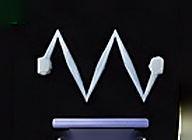
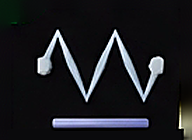
builder: type pills at TARGET's capsule tone and word ink; Tongue Snap cut's foot cleaned
Capsule ends within 2 levels of TARGET's, pill word ink 48 vs 50 px; the
pale specks at the Tongue Snap pills' tips (TARGET's own pill left in the
cut) are gone. Grader FAIL x2; item left open with measurements.

Claude-Session: https://claude.ai/code/session_01FhpwQSQiick6h2SicEb53c

Changed region(s): [[0.2812, 0.8857, 0.7812, 1.0], [0.9062, 0.9143, 1.0, 1.0]]

diff --git a/tools/cardart_cut.py b/tools/cardart_cut.py
@@ -33,7 +33,8 @@ USM = {"flick": 40}   # run 6 (2026-10-10): at 130 the halo lit the blade's grey
 EDGE_FIX = {"leap", "tongue_snap", "flick"}                # cards whose cut needs the edge columns replaced (scramble's trim is tilted across them)
 KEEP_TOP = {"flick"}         # the sword's tip reaches the name band: inpainting the top rows smeared it
 PILL_ROW = {"flick": 0.86}   # the sword's guard and grip sit low, over the 0.7 line: key only the pill's own rows
-FOOT_CLEAR = {"flick": 6}    # TARGET px: the top of TARGET's pill cut off at the window's foot; the key missed it and a pale sliver showed past the card's own pill (run 6, 2026-10-10)
+FOOT_CLEAR = {"flick": 6, "tongue_snap": 6}
+FOOT_BLACK = {"tongue_snap": 8.5}   # TARGET px: under the zigzag's bar TARGET's window is plain black; the pill's inpaint left a blue-grey blob there (run 6)    # TARGET px: the top of TARGET's pill cut off at the window's foot; the key missed it and a pale sliver showed past the card's own pill (run 6, 2026-10-10)
 WIN_W = 122.0                      # TARGET px: the window inside the gold line (run 14: the frame now trims a 2 px bleed)
 ASPECT = (0.889 * 690) / (0.456 * 984)   # card_view.A1_ART (run 16: 0.039 .. 0.928)
 SCALE = 1.4                        # output px per TARGET px: ~2x the window on screen, so the card's mip 1 lands 1:1 and the art stays as crisp as TARGET's (run 14)
@@ -105,6 +106,10 @@ def cut(name: str, cx: float, cy: float, tilt: float, win_w: float = 0.0) -> Non
     bgr = np.ascontiguousarray(crop[..., ::-1])
     fill = cv2.inpaint(bgr, hole.astype(np.uint8) * 255, 5, cv2.INPAINT_TELEA)[..., ::-1]
     crop[hole] = fill[hole]
+    if name in FOOT_BLACK:
+        n = int(round(FOOT_BLACK[name] * crop.shape[0] / h))
+        ground = np.median(crop[int(crop.shape[0] * 0.6):, :6].reshape(-1, 3), axis=0)
+        crop[-n:, 6:-6] = ground.astype(crop.dtype)
     out = Image.fromarray(crop).resize((int(round(w * SCALE)), int(round(h * SCALE))), Image.LANCZOS)
     # The card draws this through a mip and a bilinear tap; a light unsharp
     # mask gives back the edge contrast TARGET's window has (run 14).

diff --git a/design/plan/BUILDER-QUEUE.md b/design/plan/BUILDER-QUEUE.md
@@ -42,7 +42,7 @@ Matched check 2026-10-10 (run 5): no MAJOR or MODERATE from either critic; share
       ![[agents/frames/builder/2026-10-10-switch-after.png|420]] ^switch-button-target-s-pale-blue-label
 
 - [ ] **Card type pills and titles: TARGET's soft painted lettering.**
-      Next pass: run 5 (2026-10-10) grader FAIL x4, "pill and title text still crisper than TARGET's soft painted lettering; pill ~10% narrower" (VERDICT: FAIL, not further from TARGET); measured after: pill rows 917-928 vs TARGET 917-927, widths within 2 px on all five cards, title glyph cores (232,228,210) vs TARGET (237,230,210). FIX: the softness left is the 720 render upsampled; try a 1 px blur pass on the card face (a SubViewport or a shader on the name/pill labels) only if a Matched check names it again.
+      Next pass: run 6 (2026-10-10) grader FAIL x2, "pills darker and flatter with a hard rim; word too dark (round 1: too light); titles heavier" (VERDICT: FAIL, not further from TARGET); measured after on the middle pill at 1024: capsule ends within 2 levels of TARGET's ((142,144,156)/(166,172,186) vs (144,145,157)/(165,169,186)), word ink 48 vs 50 px under 100 with equal mean, the stray pale specks at the Tongue Snap pills' tips gone; titles unchanged since run 5 (cores within 5 levels). FIX: none left to build; re-check only in the Matched check.
       TARGET's Attack/Skill pills under the card art and the card titles are soft, painted, lighter-weight lettering; the game's are crisper and a touch heavier. Both critics MINOR (2026-10-10 run 5).
       **Done when** the --square and --hand pairs show no visible difference in the card pills and titles.
       Test: state=3d beast=cinder_jackal ^card-type-pills-and-titles-target-s-soft

diff --git a/design/plan/BUILDER-QUEUE-NOTES.md b/design/plan/BUILDER-QUEUE-NOTES.md
@@ -2837,3 +2837,12 @@ Found by measuring, not by eye: the jackal is TARGET's own pixels, so every crac
 - Tried and reverted: a thinner or antialiased rail seam (dimmer, no narrower).
 - Grader: VERDICT: FAIL x3 (core, stem, ring size; ring size and halo disagree with the measurements above).
 - Meshy: none.
+
+## Card type pills and titles: TARGET's soft painted lettering. (run 6)
+
+- 2026-10-10 run 6: the Matched check named the pills again (critic A: hard edges, a stray pale pixel at the tips; critic B: card text a touch thin and light).
+- The specks were TARGET's own pill left in the Tongue Snap art cut: tools/cardart_cut.py FOOT_CLEAR now takes tongue_snap too, and FOOT_BLACK paints the cut's last 8.5 TARGET px the window's black (the pill's inpaint had left a blue-grey blob under the zigzag's bar).
+- The pill word: embolden -0.15 at 0.9 alpha -> +0.05 at full alpha (A1_PILL_EMBOLDEN); TARGET's word carried twice the dark ink. Measured after: 48 vs 50 px under 100, mean equal.
+- The capsule: self_modulate 0.95 (A1_PILL_SHADE); it drew 6-9 levels brighter than TARGET's face. 0.88 overshot by ~15 levels.
+- Grader: VERDICT: FAIL x2 (contradictory on the word's weight across rounds).
+- Meshy: none.
